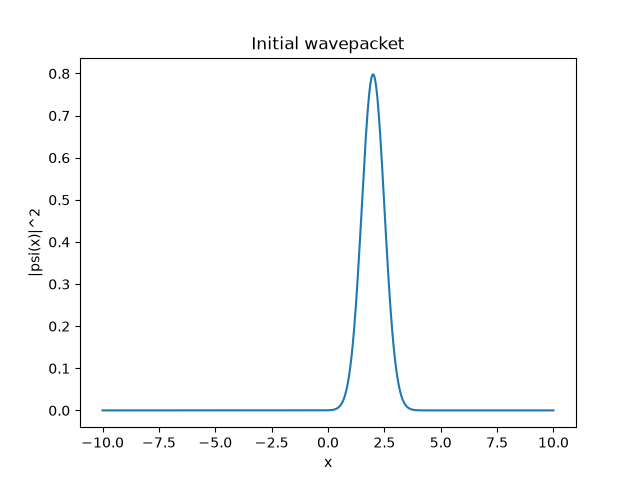
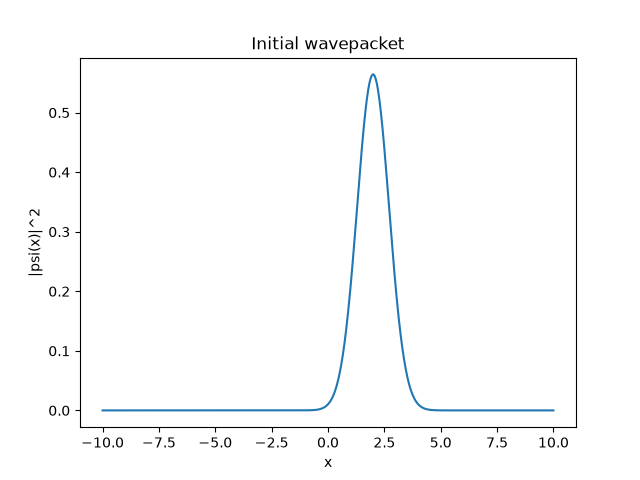
make phase 1

diff --git a/phase1_single_particle.py b/phase1_single_particle.py
@@ -31,10 +31,10 @@ dx = x[1] - x[0]
 k = 2 * np.pi * np.fft.fftfreq(N, d=dx)
 
 x_0 = 2.0
-sigma_0 = 1.0/np.sqrt(2.0)
+sigma_0 = 1.0
 
 k_0 = 0.0
-psi = np.exp(-(x - x_0)**2 / (2 * sigma_0**2)) * np.exp(1j * k_0 * x)
+psi = np.exp(-(x - x_0)**2 /(2 * sigma_0**2)) *np.exp(1j * k_0 *x)
 
 norm = np.sum(np.abs(psi)**2) * dx
 psi = psi / np.sqrt(norm)
@@ -45,4 +45,91 @@ plt.xlabel("x")
 plt.ylabel("|psi(x)|^2")
 plt.title("Initial wavepacket")
 plt.savefig("plots/initial_wavepacket.png")
+plt.close()
+
+
+V = 0.5 * m * omega**2 * x**2
+
+dt =0.01
+total_time = 10.0
+steps = int(total_time / dt)
+
+potential_half = np.exp(-1j * V * dt / (2* h_bar))
+
+kinetic_energy = h_bar * k**2 / (2 * m)
+kinetic = np.exp(-1j * kinetic_energy *dt/ h_bar)
+
+times = []
+center_positions = []
+analytic_positions = []
+norms = []
+
+for step in range(steps):
+
+    psi = potential_half * psi
+
+    psi_k = np.fft.fft(psi)
+
+    psi_k = kinetic * psi_k
+
+    psi = np.fft.ifft(psi_k)
+
+    psi = potential_half * psi
+
+    probability = np.abs(psi) ** 2
+
+    norm = np.sum(probability) * dx
+    norms.append(norm)
+
+    average_x = np.sum(x * probability)
+    average_x = average_x * dx
+
+    current_time = (step+1) * dt
+
+    expected_x = x_0 * np.cos(omega * current_time)
+
+    center_positions.append(average_x)
+    analytic_positions.append(expected_x)
+    times.append(current_time)
+
+maximum_norm = max(norms)
+
+minimum_norm = min(norms)
+
+
+print("Maximum norm:", maximum_norm)
+print("Minimum norm:", minimum_norm)
+print("Norm difference:", maximum_norm - minimum_norm)
+
+
+plt.figure()
+plt.plot(times, center_positions, label="Simulation")
+plt.plot(times, analytic_positions, "--", label="Analytic")
+plt.xlabel("Time")
+plt.ylabel("Center Position")
+plt.legend()
+plt.savefig("plots/center_of_mass.png")
+plt.close()
+
+
+
+plt.figure()
+plt.plot(times, norms)
+plt.xlabel("Time")
+plt.ylabel("Norm")
+plt.savefig("plots/norm_vs_time.png")
+plt.close()
+
+
+
+final_probability = np.abs(psi) ** 2
+
+
+
+plt.figure()
+plt.plot(x, final_probability)
+plt.xlabel("x")
+plt.ylabel("|psi(x)|^2")
+plt.title("Final wavepacket")
+plt.savefig("plots/final_wavepacket.png")
 plt.close()
